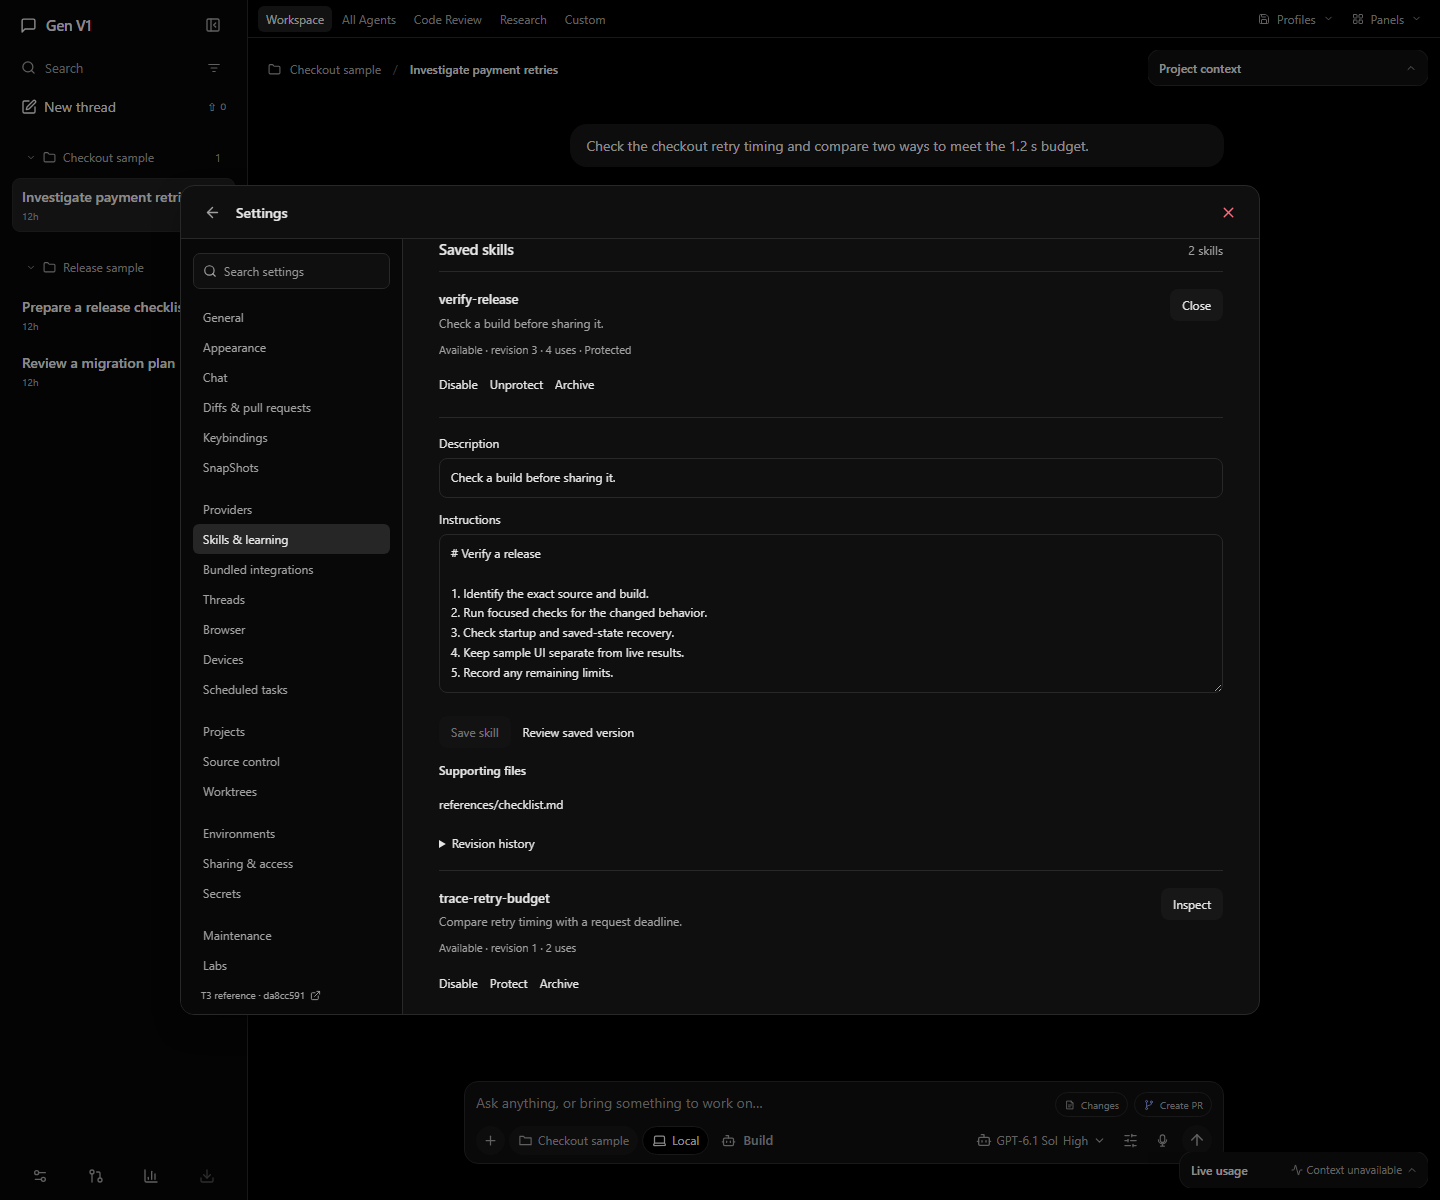
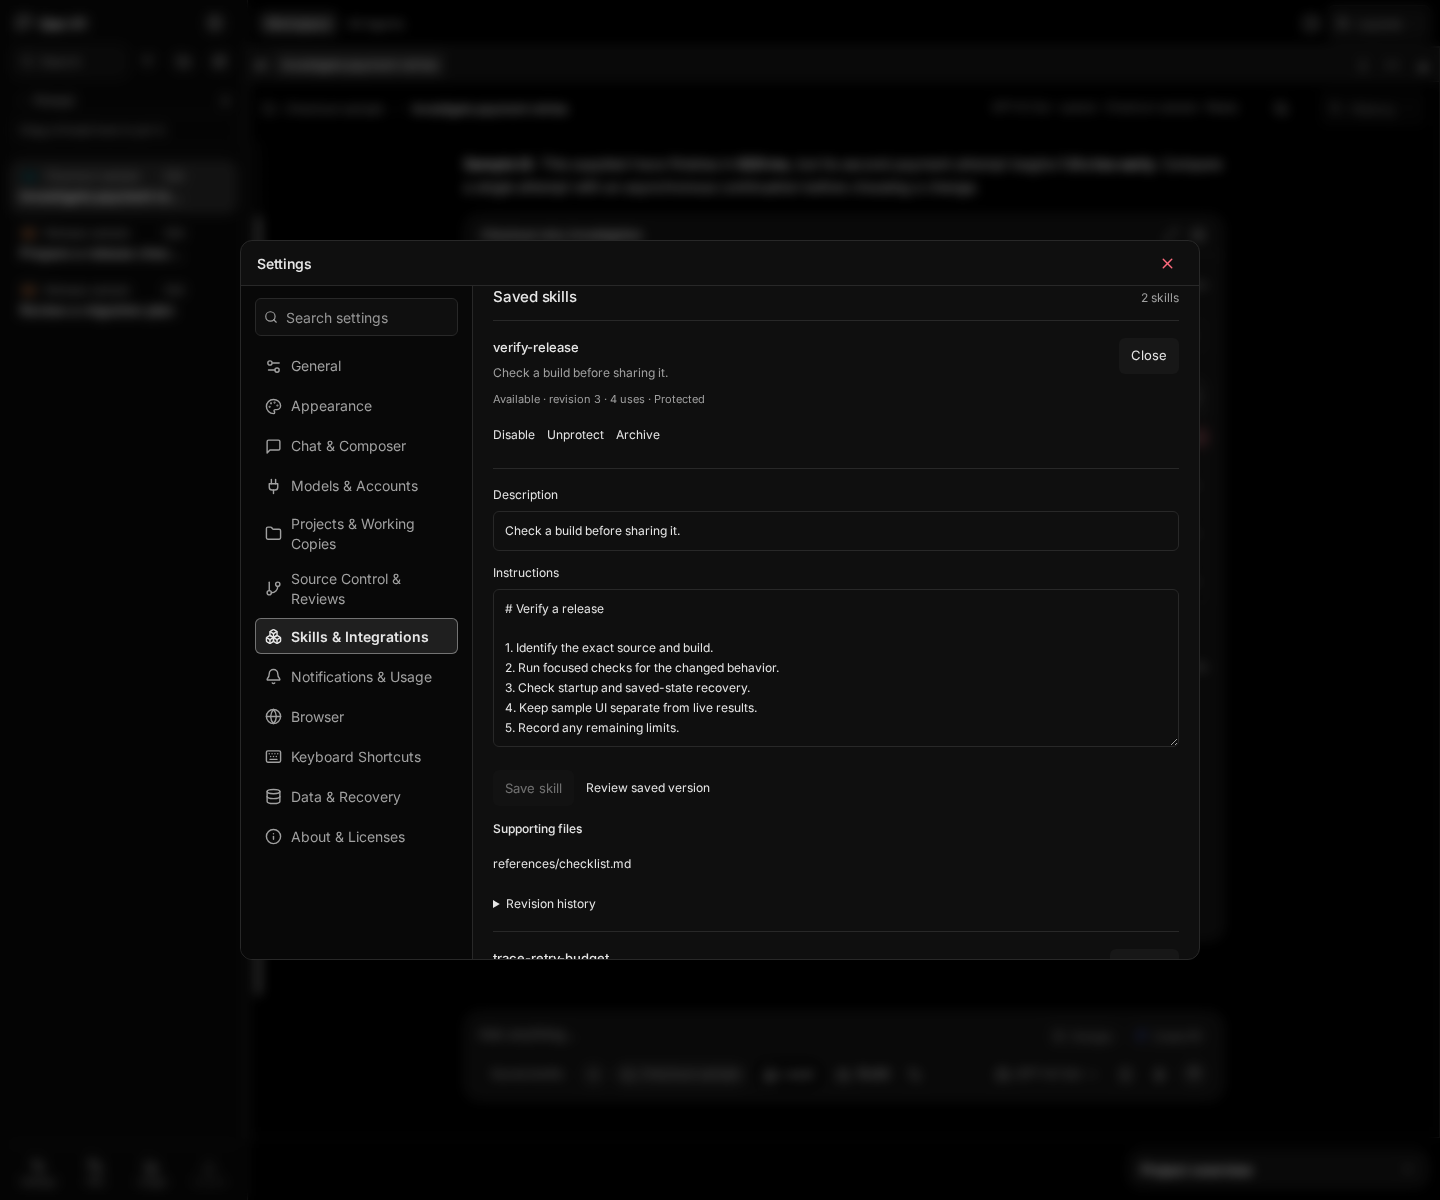
Recapture public docs screenshots from current main

diff --git a/scripts/capture-public-media.ts b/scripts/capture-public-media.ts
@@ -1,0 +1,98 @@
+import {spawn,execFileSync} from 'node:child_process';
+import {createHash} from 'node:crypto';
+import {readFile,writeFile} from 'node:fs/promises';
+import {resolve,join} from 'node:path';
+import {chromium,expect,type Browser,type Page} from '@playwright/test';
+import {serveTaskFixture,taskFixture} from '../tests/e2e/task-interface-fixture.ts';
+import {createWorkspaceCanvas} from '../packages/core/workspace-layout.ts';
+import {planDataId,PLANNING_PROVENANCE,type PlanRecord} from '../packages/contracts/planning.ts';
+import {terminateProcessTree} from '../packages/runtime-pi/process-tree.ts';
+import {verificationPorts} from './portable-verification.ts';
+import type {Snapshot} from '../packages/contracts/index.ts';
+import type {SkillDetail,SkillSummary} from '../packages/contracts/skills.ts';
+
+// Recaptures the still images in docs/public/media and refreshes provenance.json.
+// Videos, posters and the animated preview are left as recorded.
+const media=resolve('docs/public/media'),root=resolve('.'),now='2026-11-19T12:00:00.000Z',created='2026-11-04T00:00:00.000Z';
+const models=[{id:'openai/sol',provider:'openai',name:'GPT-6.1 Sol',thinkingLevels:['low','medium','high']},{id:'openai/terra',provider:'openai',name:'GPT-6.1 Terra'},{id:'claude-code/sonnet',provider:'claude-code',name:'Claude Sonnet'},{id:'claude-code/opus',provider:'claude-code',name:'Claude Opus'},{id:'gemini-cli/pro',provider:'gemini-cli',name:'Gemini Pro'}];
+const trace={revision:'capture-1',title:'Checkout latency',source:'Sample capture · checkout-trace.json',spans:[
+ {id:'checkout',name:'POST /checkout',service:'checkout-api',startMs:0,durationMs:620,status:'error'},
+ {id:'first',parentId:'checkout',name:'First payment attempt',startMs:45,durationMs:120,status:'error',detail:'HTTP 429 · Retry-After: 2 s'},
+ {id:'delay',parentId:'checkout',name:'Retry delay',startMs:165,durationMs:200,status:'ok'},
+ {id:'second',parentId:'checkout',name:'Second payment attempt',startMs:365,durationMs:180,status:'error'},
+]};
+const alternatives={title:'Choose the next step',source:'Sample scenarios · estimates, not executed changes',criteria:[{id:'response',label:'Response'},{id:'retry',label:'Retry policy'}],options:[
+ {id:'single',label:'Single attempt',summary:'Immediate containment',values:{response:'About 40 ms estimated',retry:'Report failure; retry outside this request'}},
+ {id:'async',label:'Async continuation',summary:'Design option',values:{response:'Pending acknowledgement',retry:'Durable handoff; respect Retry-After'}},
+]};
+const projects=[{id:'checkout',name:'Checkout sample',authority:{kind:'local'},rootPath:'D:/SampleProjects/checkout',createdAt:created},{id:'release',name:'Release sample',authority:{kind:'local'},rootPath:'D:/SampleProjects/release',createdAt:created}];
+const skill:SkillSummary={name:'verify-release',description:'Check a build before sharing it.',category:'development',revision:3,state:'active',enabled:true,protected:true,origin:'agent',managed:false,author:'agent',createdAt:now,updatedAt:now,lastUsedAt:now,useCount:4,patchCount:2};
+const detail:SkillDetail={skill,content:'# Verify a release\n\n1. Identify the exact source and build.\n2. Run focused checks for the changed behavior.\n3. Check startup and saved-state recovery.\n4. Keep sample UI separate from live results.\n5. Record any remaining limits.',files:['references/checklist.md'],versions:[{revision:3,at:now,actor:{kind:'agent'},action:'patch'},{revision:2,at:now,actor:{kind:'agent'},action:'patch'},{revision:1,at:now,actor:{kind:'agent'},action:'create'}],nextVersionOffset:null};
+const plan:PlanRecord={version:1,title:'Checkout retry investigation',steps:[
+ {id:'inspect',title:'Inspect the supplied trace',status:'completed',requirements:[],agentIds:[]},
+ {id:'compare',title:'Compare the next steps',status:'working',requirements:[{id:'review',label:'Review the two design options',completed:false}],agentIds:[]},
+ {id:'verify',title:'Verify the chosen change',status:'pending',requirements:[],agentIds:[]},
+],agents:[]};
+function snapshot(theme:'dark'|'light',withPlan:boolean):Snapshot{
+ const value=taskFixture({root:'investigation',elements:{investigation:{type:'Stack',props:{gap:'md'},children:['trace','options']},trace:{type:'TraceWaterfall',props:{dataBinding:'trace',stateKey:'traceView'}},options:{type:'Comparison',props:{dataBinding:'alternatives',stateKey:'choice'}}}},{trace,alternatives},{choice:{selectedId:'single',differencesOnly:false}});
+ value.settings={theme,modelId:models[0].id,preferences:{fontSize:14,learningEnabled:true,learningApproval:true,learningInterval:10,panelAnimations:true}};
+ const base={...value.threads[0],modelId:models[0].id,sessionPath:null,createdAt:created,updatedAt:created};
+ value.threads=[{...base,title:'Investigate payment retries',projectId:'checkout',projectName:'Checkout sample'},{...base,id:'release-thread',title:'Prepare a release checklist',projectId:'release',projectName:'Release sample'},{...base,id:'migration-thread',title:'Review a migration plan',projectId:'release',projectName:'Release sample'}];
+ value.messages=[{id:'question',threadId:'task-thread',role:'user',content:'Check the checkout retry timing and compare two ways to meet the 1.2 s budget.',runId:null,createdAt:created},{id:'reply',threadId:'task-thread',role:'assistant',content:'**Sample UI.** This supplied trace finishes in **620 ms**, but its second payment attempt begins **1.8 s too early**. Compare a single attempt with an asynchronous continuation before choosing a change.',runId:null,createdAt:created}];
+ Object.assign(value.artifacts[0],{title:'Checkout retry investigation',purpose:'Inspect one supplied sample and compare the next steps.',actions:{}});
+ if(withPlan)value.data.push({id:planDataId('task-thread'),threadId:'task-thread',revision:1,provenance:PLANNING_PROVENANCE,value:structuredClone(plan),createdAt:created});
+ Object.assign(value,{skills:[skill,{...skill,name:'trace-retry-budget',description:'Compare retry timing with a request deadline.',revision:1,protected:false,useCount:2,patchCount:0}],skillProposals:[],learning:{supported:true,status:'idle',lastReview:null}});
+ return value;
+}
+async function open(page:Page,theme:'dark'|'light',withPlan=false){
+ // tsx adds a Node-only __name helper to the fixture's browser init script.
+ await page.addInitScript({content:"window.__name=(target)=>target;localStorage.setItem('harness:selected-thread','task-thread');"});
+ const value=snapshot(theme,withPlan);await serveTaskFixture(page,value);
+ // Later routes take precedence over the shared task fixture.
+ await page.route(url=>url.pathname==='/api/models',route=>route.fulfill({json:{models}}));
+ await page.route('**/api/plugins',route=>route.fulfill({json:{plugins:[]}}));
+ await page.route('**/api/threads/*/messages?*',route=>{const id=decodeURIComponent(new URL(route.request().url()).pathname.split('/')[3]);return route.fulfill({json:{messages:value.messages.filter(message=>message.threadId===id),truncated:0}});});
+ await page.route('**/api/integrations',route=>route.fulfill({json:{integrations:[]}}));
+ await page.route('**/api/skills/**',route=>route.fulfill({json:decodeURIComponent(new URL(route.request().url()).pathname.split('/').pop()??'')==='verify-release'?detail:{...detail,skill:{...skill,name:'trace-retry-budget'}}}));
+ await page.route('**/api/workspace',route=>route.fulfill({json:{projects,state:{version:1,revision:0,activeCanvasId:'main',canvases:[createWorkspaceCanvas('workspace','Workspace','main')],profiles:[],disabledKinds:[],integrations:{}}}}));
+ await page.route('**/api/projects/*/context?*',route=>{const id=new URL(route.request().url()).pathname.split('/')[3];return route.fulfill({json:{project:projects.find(p=>p.id===id)??projects[0],threadId:'task-thread',machineName:'Sample machine',editor:{available:false,label:'Editor'},branch:null,head:null,changes:{added:null,removed:null,files:null},lineage:[],scripts:[],capabilities:{git:false,terminal:false,pullRequests:false}}});});
+ await page.goto('/');
+ await expect(page).toHaveTitle('Gen V1');await expect(page.getByRole('textbox',{name:'Message',exact:true})).toBeEnabled();
+ await expect(page.locator('[data-artifact-id="task-surface"]')).toBeVisible();await expect(page.getByText('Checkout latency',{exact:true})).toBeVisible();await page.evaluate(()=>document.fonts.ready);
+}
+const expandOverview=async(page:Page)=>{await page.getByRole('button',{name:'Expand Project overview',exact:true}).click();await page.waitForTimeout(400);};
+const [port]=await verificationPorts(),origin=`http://127.0.0.1:${port}`;
+const server=spawn(process.execPath,[join(root,'node_modules/vite/bin/vite.js'),'--host','127.0.0.1','--port',String(port),'--strictPort'],{cwd:root,windowsHide:true,stdio:'ignore',detached:process.platform!=='win32'});let browser:Browser|undefined;
+try{
+ await expect.poll(async()=>{if(server.exitCode!==null)throw Error('The capture server exited.');try{return(await fetch(origin,{signal:AbortSignal.timeout(1000)})).ok;}catch{return false;}},{timeout:30000}).toBe(true);
+ browser=await chromium.launch({headless:true});
+ const run=async(file:string,viewport:{width:number;height:number},theme:'dark'|'light',act:(page:Page)=>Promise<void>,withPlan=false)=>{
+  const context=await browser!.newContext({viewport,deviceScaleFactor:1,reducedMotion:'reduce',baseURL:origin,locale:'en-US',timezoneId:'America/Los_Angeles'});
+  await context.route('**/*',route=>new URL(route.request().url()).origin===origin?route.continue():route.abort());
+  const page=await context.newPage(),errors:string[]=[];page.on('pageerror',error=>errors.push(error.message));
+  await open(page,theme,withPlan);await act(page);await page.waitForTimeout(300);
+  await page.screenshot({path:join(media,file),animations:'disabled'});
+  expect(await page.evaluate(()=>document.documentElement.scrollWidth<=innerWidth)).toBe(true);expect(errors).toEqual([]);await context.close();
+ };
+ const desktop={width:1440,height:1200};
+ await run('workspace-dark.png',desktop,'dark',async()=>{});
+ await run('workspace-light.png',desktop,'light',async()=>{});
+ await run('models.png',desktop,'dark',async page=>{await page.getByRole('combobox',{name:'Model',exact:true}).click();await expect(page.getByRole('listbox',{name:'Available models',exact:true})).toBeVisible();});
+ await run('projects.png',desktop,'dark',async page=>{await page.locator('.composer').getByRole('button',{name:'Select project'}).click();await expect(page.getByRole('dialog',{name:'Select project'})).toBeVisible();});
+ await run('plan-context.png',desktop,'dark',async page=>{await expandOverview(page);await expect(page.getByRole('region',{name:'Project overview window',exact:true}).getByText('Checkout retry investigation',{exact:true})).toBeVisible();},true);
+ await run('skills.png',desktop,'dark',async page=>{await page.getByRole('button',{name:'Settings',exact:true}).click();await page.getByRole('button',{name:'Skills & Integrations',exact:true}).click();await page.getByRole('button',{name:'Inspect verify-release',exact:true}).click();await expect(page.getByRole('textbox',{name:'Instructions for verify-release',exact:true})).toHaveValue(detail.content);await page.getByRole('heading',{name:'Saved skills',exact:true}).evaluate(element=>element.scrollIntoView({block:'start'}));});
+ await run('narrow.png',{width:390,height:844},'dark',async()=>{});
+}finally{
+ try{await browser?.close();}finally{await terminateProcessTree(server);}
+}
+const provenancePath=join(media,'provenance.json'),manifest=await readFile(provenancePath,'utf8'),provenance=JSON.parse(manifest),eol=manifest.includes('\r\n')?'\r\n':'\n';
+const commit=execFileSync('git',['rev-parse','HEAD'],{encoding:'utf8'}).trim();
+provenance.screenshots={source:{repository:provenance.source.repository,commit,version:JSON.parse(await readFile('package.json','utf8')).version+' source'},capturedAtUtc:new Date().toISOString(),files:['workspace-dark.png','workspace-light.png','models.png','skills.png','plan-context.png','projects.png','narrow.png'],method:'scripts/capture-public-media.ts: unmodified public DesktopEntry/App served by the root Vite config with the tests/e2e task-interface fixture and authored API responses. External requests blocked. Desktop 1440 x 1200, narrow 390 x 844, en-US, America/Los_Angeles, reduced motion.'};
+provenance.method.reference=[...new Set(['scripts/capture-public-media.ts',...provenance.method.reference.filter((path:string)=>path!=='scripts/capture-repository-screenshots.ts')])];
+provenance.method.screenshots='Unedited application captures; desktop 1440 x 1200, narrow 390 x 844. The narrow view shows the project overview collapsed. See screenshots for their source commit.';
+for(const entry of provenance.files){
+ const bytes=await readFile(join(media,entry.file));entry.bytes=bytes.length;entry.sha256=createHash('sha256').update(bytes).digest('hex');
+ if(entry.file.endsWith('.png')){entry.width=bytes.readUInt32BE(16);entry.height=bytes.readUInt32BE(20);}
+}
+await writeFile(provenancePath,(JSON.stringify(provenance,null,2)+'\n').replace(/("durationSeconds": \d+)$/gm,'$1.0').replaceAll('\n',eol));
+console.log(JSON.stringify({commit,files:provenance.screenshots.files}));

diff --git a/docs/public/media/README.md b/docs/public/media/README.md
@@ -1,6 +1,6 @@
 # A look around Gen
 
-These screenshots and recordings show the actual public Gen interface, rendered in Chromium from source commit `cb504d0e392fde9e70883b7b7c2e808e13488b7c` (0.6.4 source). The conversations, project labels, model catalog, trace, checklist and skills are **authored sample data**.
+These screenshots and recordings show the actual public Gen interface, rendered in Chromium. The gallery screenshots come from source commit `26ddf4d16c2fc1196b520d8a46c5441d64d01463` (0.6.5 source); the demos and animated preview come from `cb504d0e392fde9e70883b7b7c2e808e13488b7c` (0.6.4 source) and show its earlier workspace presets and settings sidebar. The conversations, project labels, model catalog, trace, checklist and skills are **authored sample data**.
 
 No personal conversation, account, credential or application profile was used. The examples make no live model requests and execute no external changes. Model entries demonstrate the picker; they do not establish account entitlement or provider availability. The browser captures do not establish native installation or updater acceptance.
 
@@ -37,19 +37,19 @@ If GitHub opens a file page rather than playing the clip, choose **View raw** or
 
 | View | What it shows |
 | --- | --- |
-| [Dark workspace](workspace-dark.png) | Project/thread navigation, conversation, trace and comparison |
+| [Dark workspace](workspace-dark.png) | Thread navigation, Workspace and All Agents views, conversation, trace and comparison |
 | [Light workspace](workspace-light.png) | The same task in the light theme |
 | [Model picker](models.png) | Searchable illustrative model catalog and reasoning controls |
-| [Skills](skills.png) | Instructions, supporting files and revision history for a sample skill |
-| [Plan and context](plan-context.png) | A validated sample checklist and compact project context |
+| [Skills](skills.png) | Skills & Integrations settings with instructions, supporting files and revision history for a sample skill |
+| [Plan and context](plan-context.png) | A validated sample task plan beside the conversation, with the project overview open |
 | [Project selection](projects.png) | Local sample project choices from the composer |
-| [Narrow window](narrow.png) | A 390 × 844 browser window with navigation closed and project context expanded |
+| [Narrow window](narrow.png) | A 390 × 844 browser window with navigation closed and the project overview collapsed |
 
 Desktop images are 1440 × 1200; the narrow image is 390 × 844. Screenshots are unedited application captures. Videos record a 1440 × 1000 viewport; editing adds a caption band outside the recorded interface and encodes web-friendly copies. Posters are extracted from the captured UI; no application interface was generated or redrawn.
 
 ## How the samples were made
 
-The capture uses the public application’s original `DesktopEntry`/`App` frontend and synthetic API fixtures, following the repository’s `scripts/capture-repository-screenshots.ts` and actual-App browser tests. A separate loopback server serves only the public frontend and the authored fixture. It never launches the native app, application backend, login console or model runtime. External browser requests are blocked.
+The capture uses the public application’s original `DesktopEntry`/`App` frontend and synthetic API fixtures, following the repository’s actual-App browser tests. The gallery screenshots are recaptured with `scripts/capture-public-media.ts`. A separate loopback server serves only the public frontend and the authored fixture. It never launches the native app, application backend, login console or model runtime. External browser requests are blocked.
 
 The demonstration has no music, voice-over, stock media or generated UI. It uses the application’s own appearance and bundled assets. Gen and retained third-party material remain subject to [LICENSE](../../../LICENSE) and [third-party notices](../../../THIRD_PARTY_NOTICES.md).
 

diff --git a/docs/public/features.md b/docs/public/features.md
@@ -42,7 +42,7 @@ Read the [connection reference](../subscription-connections.md) before relying o
 
 The original Hermes engine supplies conversation execution, skill tools, `/learn`, background review and curation. Saved skills have visible instructions, files and revision history. Approval preferences and protected or disabled skills remain part of the host’s authority checks.
 
-![Skills and learning with an authored sample procedure](media/skills.png)
+![Skills & Integrations settings with an authored sample procedure](media/skills.png)
 
 Learned text does not grant permissions. Review skill changes and consequential actions before accepting them.
 
